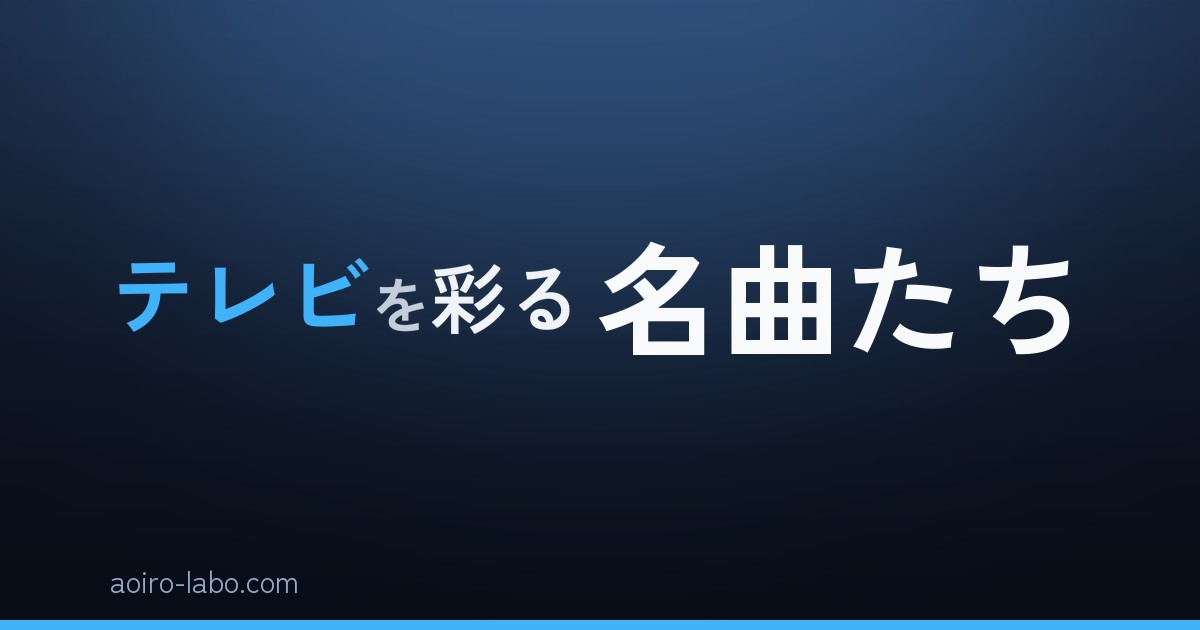
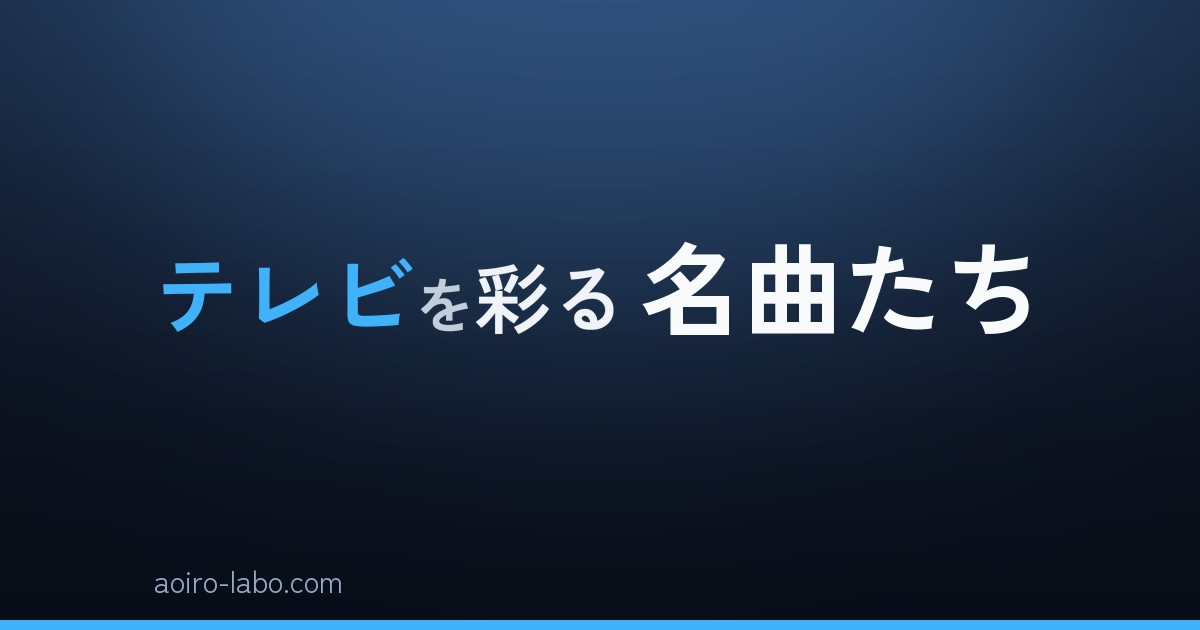
カバー生成：zone配置のheroを小さめに調整（幅上限0.36・高さ係数0.85）

Changed region(s): [[0.0925, 0.3619, 0.8942, 0.573], [0.0925, 0.9048, 0.2775, 0.9651]]

diff --git a/tools/generate_cover.py b/tools/generate_cover.py
@@ -557,7 +557,7 @@ def make(path, out, hero_override=None, emphasis_override=None):
         while ksize>90:
             kw_font=cover_font("Bold", ksize)
             kw_w=d.textlength(hero, font=kw_font)
-            if kw_w <= W*0.46: break
+            if kw_w <= W*0.36: break
             ksize-=12
         body = disp[:-len(hero)]
         items = classify(split_emph(tokenize(body), emph, ''), emph, '')
@@ -581,7 +581,7 @@ def make(path, out, hero_override=None, emphasis_override=None):
             _f100=cover_font("Bold", 100)
             _bb=d.textbbox((0,0), hero, font=_f100)
             _ratio=(_bb[3]-_bb[1])/100.0
-            ksize=max(60, int(block_h*0.96/_ratio))
+            ksize=max(60, int(block_h*0.85/_ratio))
             while ksize>60:
                 kw_font=cover_font("Bold", ksize)
                 kw_w=d.textlength(hero, font=kw_font)
